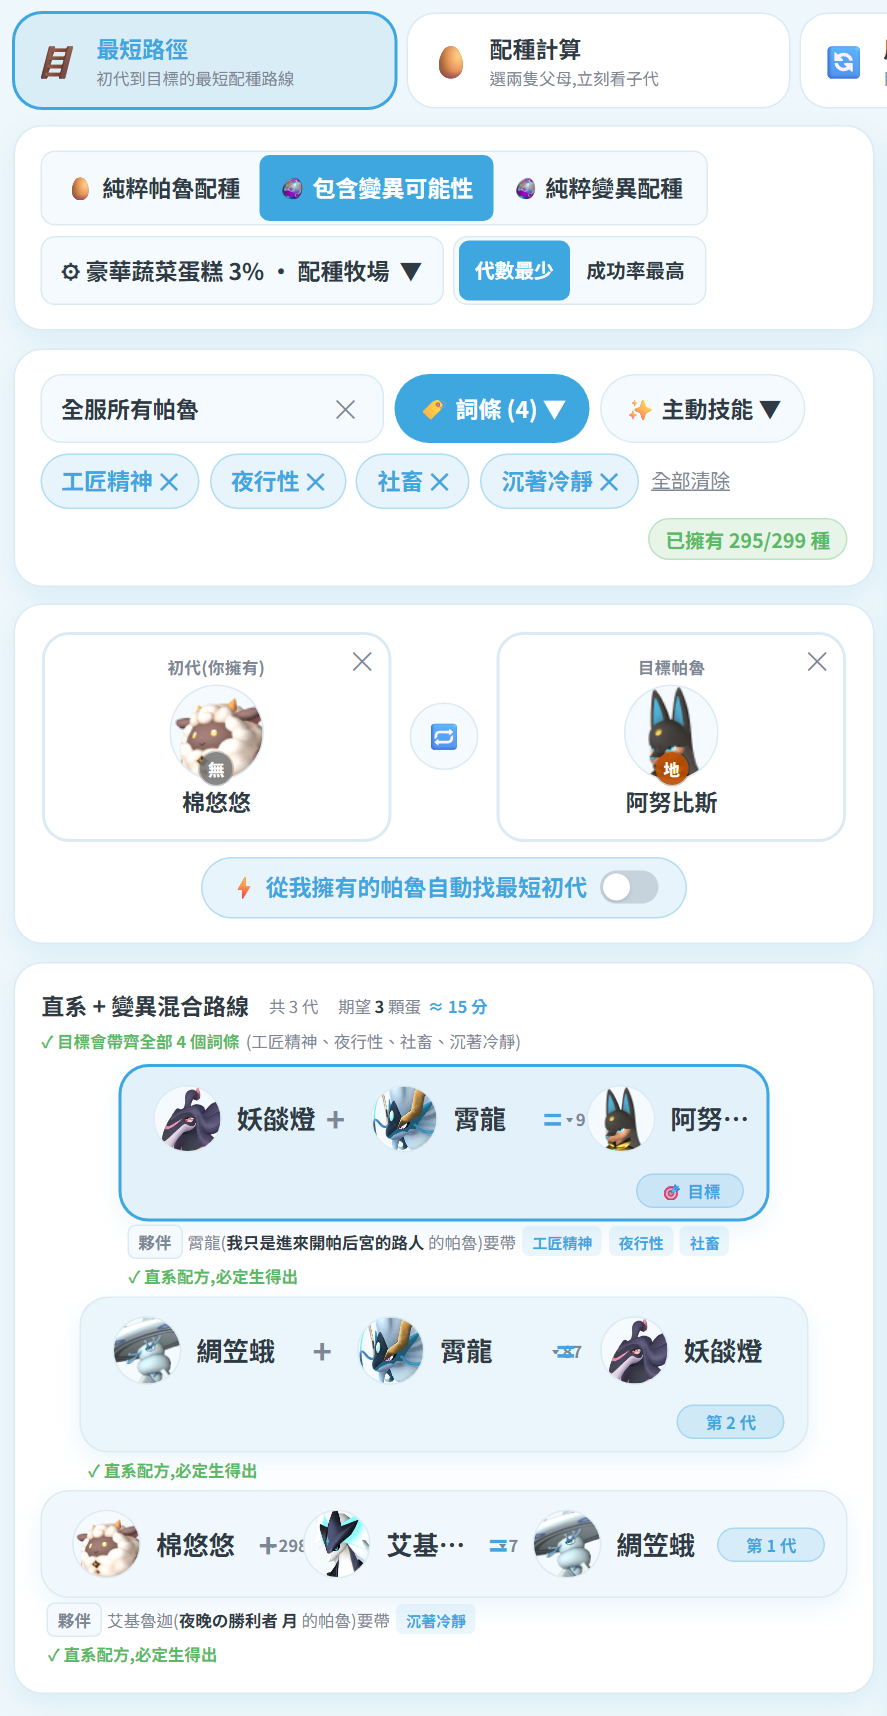
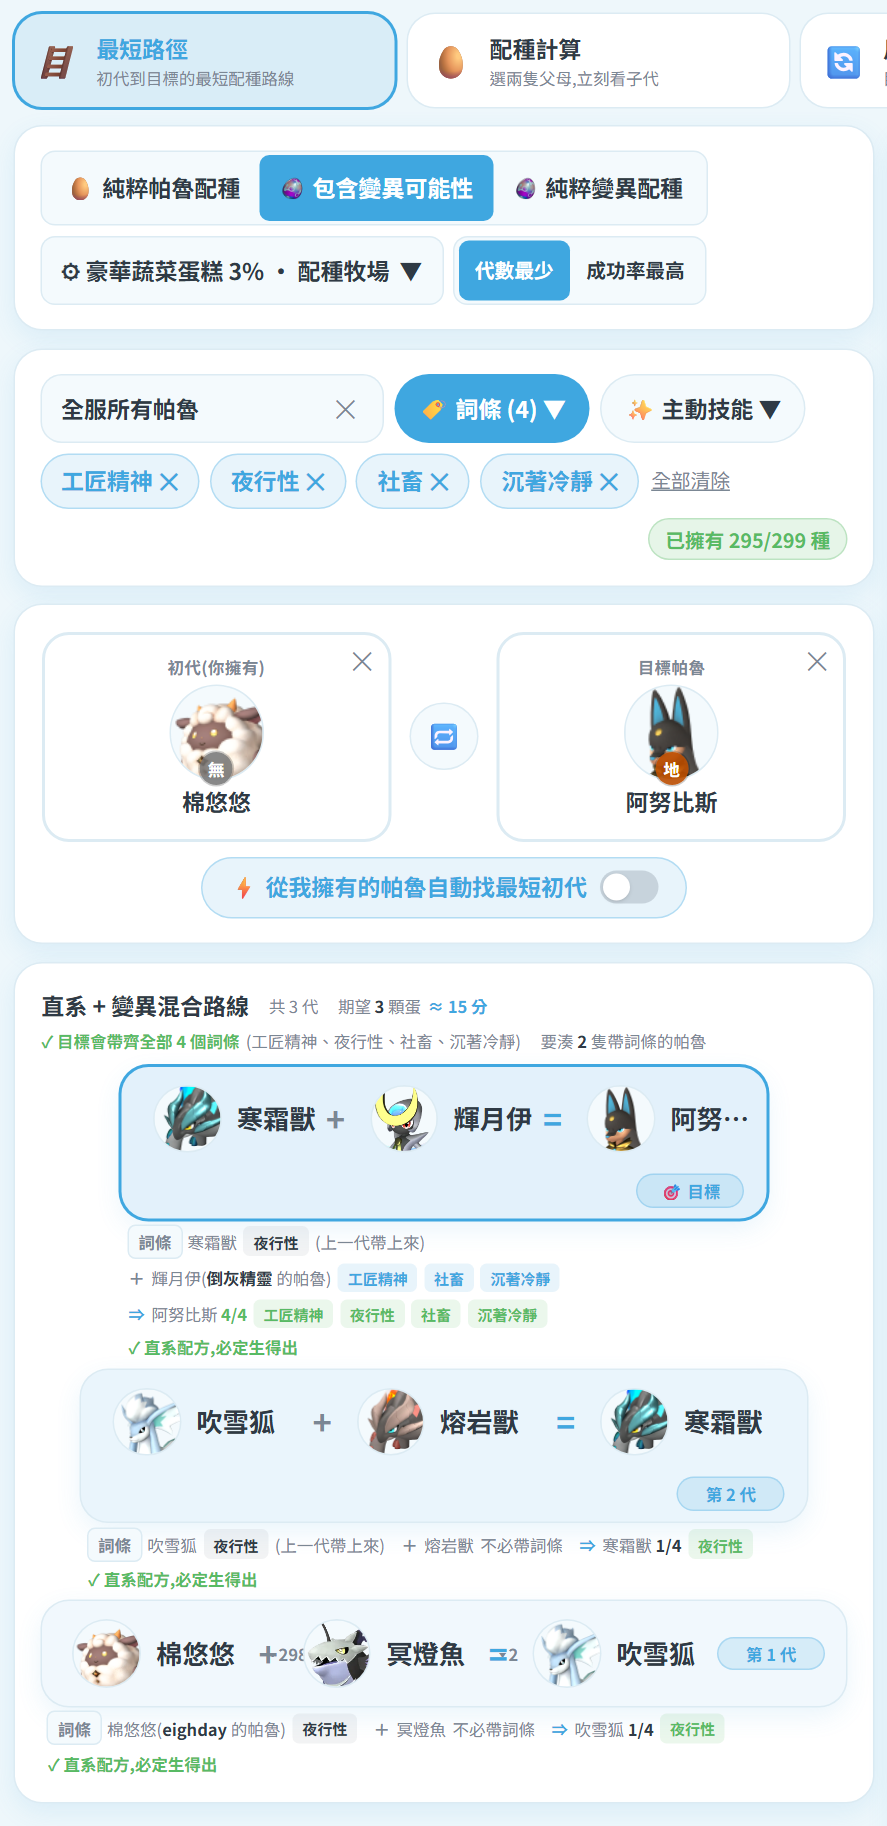
Show the full passive ledger on every ladder row
原本每一列只印「B 要帶什麼」,看起來像中間那隻沒帶到詞條。改成三段帳:
A 手上已有什麼(灰) ＋ B 帶進來什麼(藍,含主人) ⇒ 子代 n/4(綠),
標題並加上「要湊 N 隻帶詞條的帕魯」。

解算器同步加一條決勝條件:代數/成本相同時,優先挑要湊最少隻帶詞條帕魯的走法。

diff --git a/frontend/packages/web/src/panel/BreedingQuery.tsx b/frontend/packages/web/src/panel/BreedingQuery.tsx
@@ -1094,10 +1094,22 @@ function HybridPathView({
           <b className="ml-1 text-pal">≈ {totalTime}</b>
         </span>
         {traitAware && (
-          <span className="font-semibold text-grass">
-            ✓ {t("目標會帶齊全部 {n} 個詞條", { n: desired.length })}
-            <span className="ml-1 font-normal text-ink-muted">({desired.join("、")})</span>
-          </span>
+          <>
+            <span className="font-semibold text-grass">
+              ✓ {t("目標會帶齊全部 {n} 個詞條", { n: desired.length })}
+              <span className="ml-1 font-normal text-ink-muted">({desired.join("、")})</span>
+            </span>
+            <span>
+              {t("要湊")}{" "}
+              <b className="text-ink">
+                {path.steps.reduce(
+                  (n, x, i) => n + ((x.partnerNeed ?? 0) > 0 ? 1 : 0) + (i === 0 && (x.fromNeed ?? 0) > 0 ? 1 : 0),
+                  0,
+                )}
+              </b>{" "}
+              {t("隻帶詞條的帕魯")}
+            </span>
+          </>
         )}
       </div>
       {/* 由目標往下回推:最上面是最後一次配種的結果 */}
@@ -1275,37 +1287,62 @@ function HybridPathView({
               </div>
             )}
             {traitAware && (() => {
-              // 這一列要誰帶什麼進來:初代那隻(只有最底列)+ 這一步的夥伴
-              const rows: { mask: number; species: string; pal?: SaveBreedingPal; role: string }[] = [];
-              if (stepIdx === 0 && (s.fromNeed ?? 0) > 0)
-                rows.push({ mask: s.fromNeed!, species: s.from, pal: carrierFor(s.from, s.fromNeed!), role: t("初代") });
-              if (needMask > 0 && s.partner)
-                rows.push({ mask: needMask, species: s.partner, pal: carrierFor(s.partner, needMask), role: t("夥伴") });
-              if (!rows.length) return null;
+              // 這一列的詞條帳目:A 手上已經有什麼 ＋ B 帶進來什麼 ⇒ 子代變成幾個。
+              // 只印「B 要帶」會讓人以為中間那隻沒帶詞條,所以三段都印出來。
+              const fromMask = s.fromNeed ?? 0;
+              const childMask = s.childNeed ?? 0;
+              const fromPal = stepIdx === 0 && fromMask ? carrierFor(s.from, fromMask) : undefined;
+              const partnerPal = needMask ? carrierFor(s.partner, needMask) : undefined;
+              const who = (p?: SaveBreedingPal) =>
+                p ? (
+                  <>
+                    (<b className="text-ink">{p.ownerName || "?"}</b> {t("的帕魯")})
+                  </>
+                ) : null;
+              const chips = (mask: number, tone: string) =>
+                traitNames(mask).map((x) => (
+                  <span key={x} className={`rounded px-1.5 py-0.5 text-[10px] font-bold ${tone}`}>
+                    {x}
+                  </span>
+                ));
               return (
-                <div className="mt-1 flex flex-wrap gap-x-4 gap-y-1 px-1 text-[11px]" style={rowWidth(gen)}>
-                  {rows.map((r) => (
-                    <span key={r.role} className="flex min-w-0 flex-wrap items-center gap-1">
-                      <span className="shrink-0 rounded bg-card-soft px-1.5 py-0.5 font-bold text-ink-muted ring-1 ring-line">
-                        {r.role}
-                      </span>
-                      <span className="shrink-0 text-ink-muted">
-                        {palInfo(r.species.toLowerCase()).zh || r.species}
-                        {r.pal && (
-                          <>
-                            {r.pal.nickname ? `「${r.pal.nickname}」` : ""}(
-                            <b className="text-ink">{r.pal.ownerName || "?"}</b> {t("的帕魯")})
-                          </>
-                        )}
-                        {t("要帶")}
-                      </span>
-                      {traitNames(r.mask).map((x) => (
-                        <span key={x} className="rounded bg-pal/10 px-1.5 py-0.5 text-[10px] font-bold text-pal">
-                          {x}
-                        </span>
-                      ))}
+                <div
+                  className="mt-1 flex flex-wrap items-center gap-x-2.5 gap-y-1 px-1 text-[11px] text-ink-muted"
+                  style={rowWidth(gen)}
+                >
+                  <span className="flex min-w-0 flex-wrap items-center gap-1">
+                    <span className="shrink-0 rounded bg-card-soft px-1.5 py-0.5 font-bold ring-1 ring-line">
+                      {t("詞條")}
                     </span>
-                  ))}
+                    <span className="shrink-0">
+                      {palInfo(s.from.toLowerCase()).zh || s.from}
+                      {stepIdx === 0 ? who(fromPal) : null}
+                    </span>
+                    {fromMask ? (
+                      chips(fromMask, "bg-ink-muted/10 text-ink")
+                    ) : (
+                      <span className="shrink-0">{t("無")}</span>
+                    )}
+                    {stepIdx > 0 && fromMask ? <span className="shrink-0">{t("(上一代帶上來)")}</span> : null}
+                  </span>
+                  <span className="flex min-w-0 flex-wrap items-center gap-1">
+                    <span className="shrink-0 font-bold">＋</span>
+                    <span className="shrink-0">
+                      {palInfo(s.partner.toLowerCase()).zh || s.partner}
+                      {who(partnerPal)}
+                    </span>
+                    {needMask ? chips(needMask, "bg-pal/12 text-pal") : <span className="shrink-0">{t("不必帶詞條")}</span>}
+                  </span>
+                  <span className="flex min-w-0 flex-wrap items-center gap-1">
+                    <span className="shrink-0 font-bold text-pal">⇒</span>
+                    <span className="shrink-0">
+                      {palInfo(s.child.toLowerCase()).zh || s.child}{" "}
+                      <b className={childMask === (1 << desired.length) - 1 ? "text-grass" : "text-ink"}>
+                        {traitNames(childMask).length}/{desired.length}
+                      </b>
+                    </span>
+                    {chips(childMask, "bg-grass/12 text-grass")}
+                  </span>
                 </div>
               );
             })()}

diff --git a/frontend/packages/web/src/hybridPath.ts b/frontend/packages/web/src/hybridPath.ts
@@ -533,6 +533,8 @@ export function buildTraitGraph(
   const costAt = new Float64Array(size).fill(Infinity);
   const logPAt = new Float64Array(size).fill(-Infinity);
   const mutsAt = new Int32Array(size);
+  /** 路線上有幾步需要「特定一隻帶詞條的帕魯」—— 同樣好走時當然是越少越好找 */
+  const carriersAt = new Int32Array(size);
   /** 往目標方向的下一步:夥伴、子代狀態、種類、機率 */
   const nextPartner = new Int32Array(size).fill(-1);
   const nextState = new Int32Array(size).fill(-1);
@@ -553,6 +555,7 @@ export function buildTraitGraph(
       const curCost = costAt[cur];
       const curLogP = logPAt[cur];
       const curMuts = mutsAt[cur];
+      const curCarriers = carriersAt[cur];
       /** 把「(src, needSrc) 配 partner 生出 cur 的物種」記進圖。 */
       const relax = (src: number, needSrc: number, partner: number, isMut: number, chance: number, perEgg: number) => {
         const k = src * nMask + needSrc;
@@ -560,16 +563,23 @@ export function buildTraitGraph(
         const cost = curCost + 1 / perEgg;
         const d = curDepth + 1;
         const logP = curLogP + Math.log(perEgg);
+        // 這一步有沒有動用到「特定一隻帶詞條的帕魯」
+        const carriers = curCarriers + (needSrc !== need ? 1 : 0);
+        // 同深度/同成本時,先看成功率,再看要湊幾隻帶詞條的帕魯(越少越好找)
         const win =
           depthAt[k] < 0 ||
           (strategy === "odds"
-            ? cost < costAt[k] - 1e-9
-            : d < depthAt[k] || (d === depthAt[k] && logP > logPAt[k] + 1e-12));
+            ? cost < costAt[k] - 1e-9 ||
+              (cost < costAt[k] + 1e-9 && carriers < carriersAt[k])
+            : d < depthAt[k] ||
+              (d === depthAt[k] &&
+                (logP > logPAt[k] + 1e-12 || (logP > logPAt[k] - 1e-12 && carriers < carriersAt[k]))));
         if (!win) return;
         depthAt[k] = d;
         costAt[k] = cost;
         logPAt[k] = logP;
         mutsAt[k] = curMuts + isMut;
+        carriersAt[k] = carriers;
         nextPartner[k] = partner;
         nextState[k] = cur;
         nextMut[k] = isMut;
@@ -612,8 +622,12 @@ export function buildTraitGraph(
       if (
         bestK < 0 ||
         (strategy === "odds"
-          ? costAt[k] < costAt[bestK]
-          : depthAt[k] < depthAt[bestK] || (depthAt[k] === depthAt[bestK] && logPAt[k] > logPAt[bestK]))
+          ? costAt[k] < costAt[bestK] ||
+            (costAt[k] < costAt[bestK] + 1e-9 && carriersAt[k] < carriersAt[bestK])
+          : depthAt[k] < depthAt[bestK] ||
+            (depthAt[k] === depthAt[bestK] &&
+              (logPAt[k] > logPAt[bestK] ||
+                (logPAt[k] > logPAt[bestK] - 1e-12 && carriersAt[k] < carriersAt[bestK]))))
       )
         bestK = k;
     }

diff --git a/docs/wiki/網站-詞條篩選配種.md b/docs/wiki/網站-詞條篩選配種.md
@@ -56,13 +56,31 @@
 
 ![詞條 × 變異混合路線](images/breed-14-trait-mutation.png)
 
-### 每一步都標明「誰要出這隻」
+### 每一列都有完整的詞條帳目
 
-| 畫面上會看到 | 意思 |
+每一列下面會印出這一步的三段帳:**A 手上已經有什麼 ＋ B 帶進來什麼 ⇒ 子代變成幾個**。
+
+```text
+詞條  金渦蝸(鹿毅氏 的帕魯) 擁抱烈日
+   ＋ 八雲犬(路人 的帕魯) 永動機 運動健將
+   ⇒ 喵璐璐 3/4  永動機 運動健將 擁抱烈日
+
+詞條  喵璐璐 永動機 運動健將 擁抱烈日 (上一代帶上來)
+   ＋ 蝕魂魷(塔塔熊 的帕魯) 游泳健將
+   ⇒ 君王美露帕 4/4  永動機 運動健將 擁抱烈日 游泳健將
+```
+
+| 你會看到 | 意思 |
 |---|---|
-| `初代 鬼刃武士(貓毛 的帕魯)要帶 工匠精神` | 初代要用**貓毛**這位玩家那隻帶「工匠精神」的鬼刃武士 |
-| `夥伴 霄龍(阿東 的帕魯)要帶 夜行性 社畜` | 這一步的夥伴要用**阿東**那隻,牠負責補這兩個詞條 |
-| 沒有標示的一列 | 這一步不需要新的詞條,雙親自己帶上來就夠 |
+| 灰底詞條 | 這一列的 **A**(上一代留下來那隻)身上已經有的 |
+| 藍底詞條 | 這一步的 **B** 要新帶進來的,後面括號就是**誰的帕魯** |
+| 綠底 `n/4` | 這一列生出來的子代最後會有幾個 |
+| `不必帶詞條` | 這一步 B 隨便挑都行,詞條靠 A 帶上去 |
+| `(上一代帶上來)` | A 的詞條是配種繼承來的,你**不需要**已經擁有帶詞條的牠 |
+
+![每一列的詞條帳目](images/breed-17-trait-ledger.png)
+
+標題還會標「**要湊 N 隻帶詞條的帕魯**」—— 同樣代數的走法會優先挑要湊最少隻的那條。
 
 也就是說,你可以直接看出**全服有誰持有帶該詞條的帕魯**,能不能借到就是談判問題了。
 初代候選清單也只會列出「真的有人擁有、且帶得動所需詞條」的物種。
